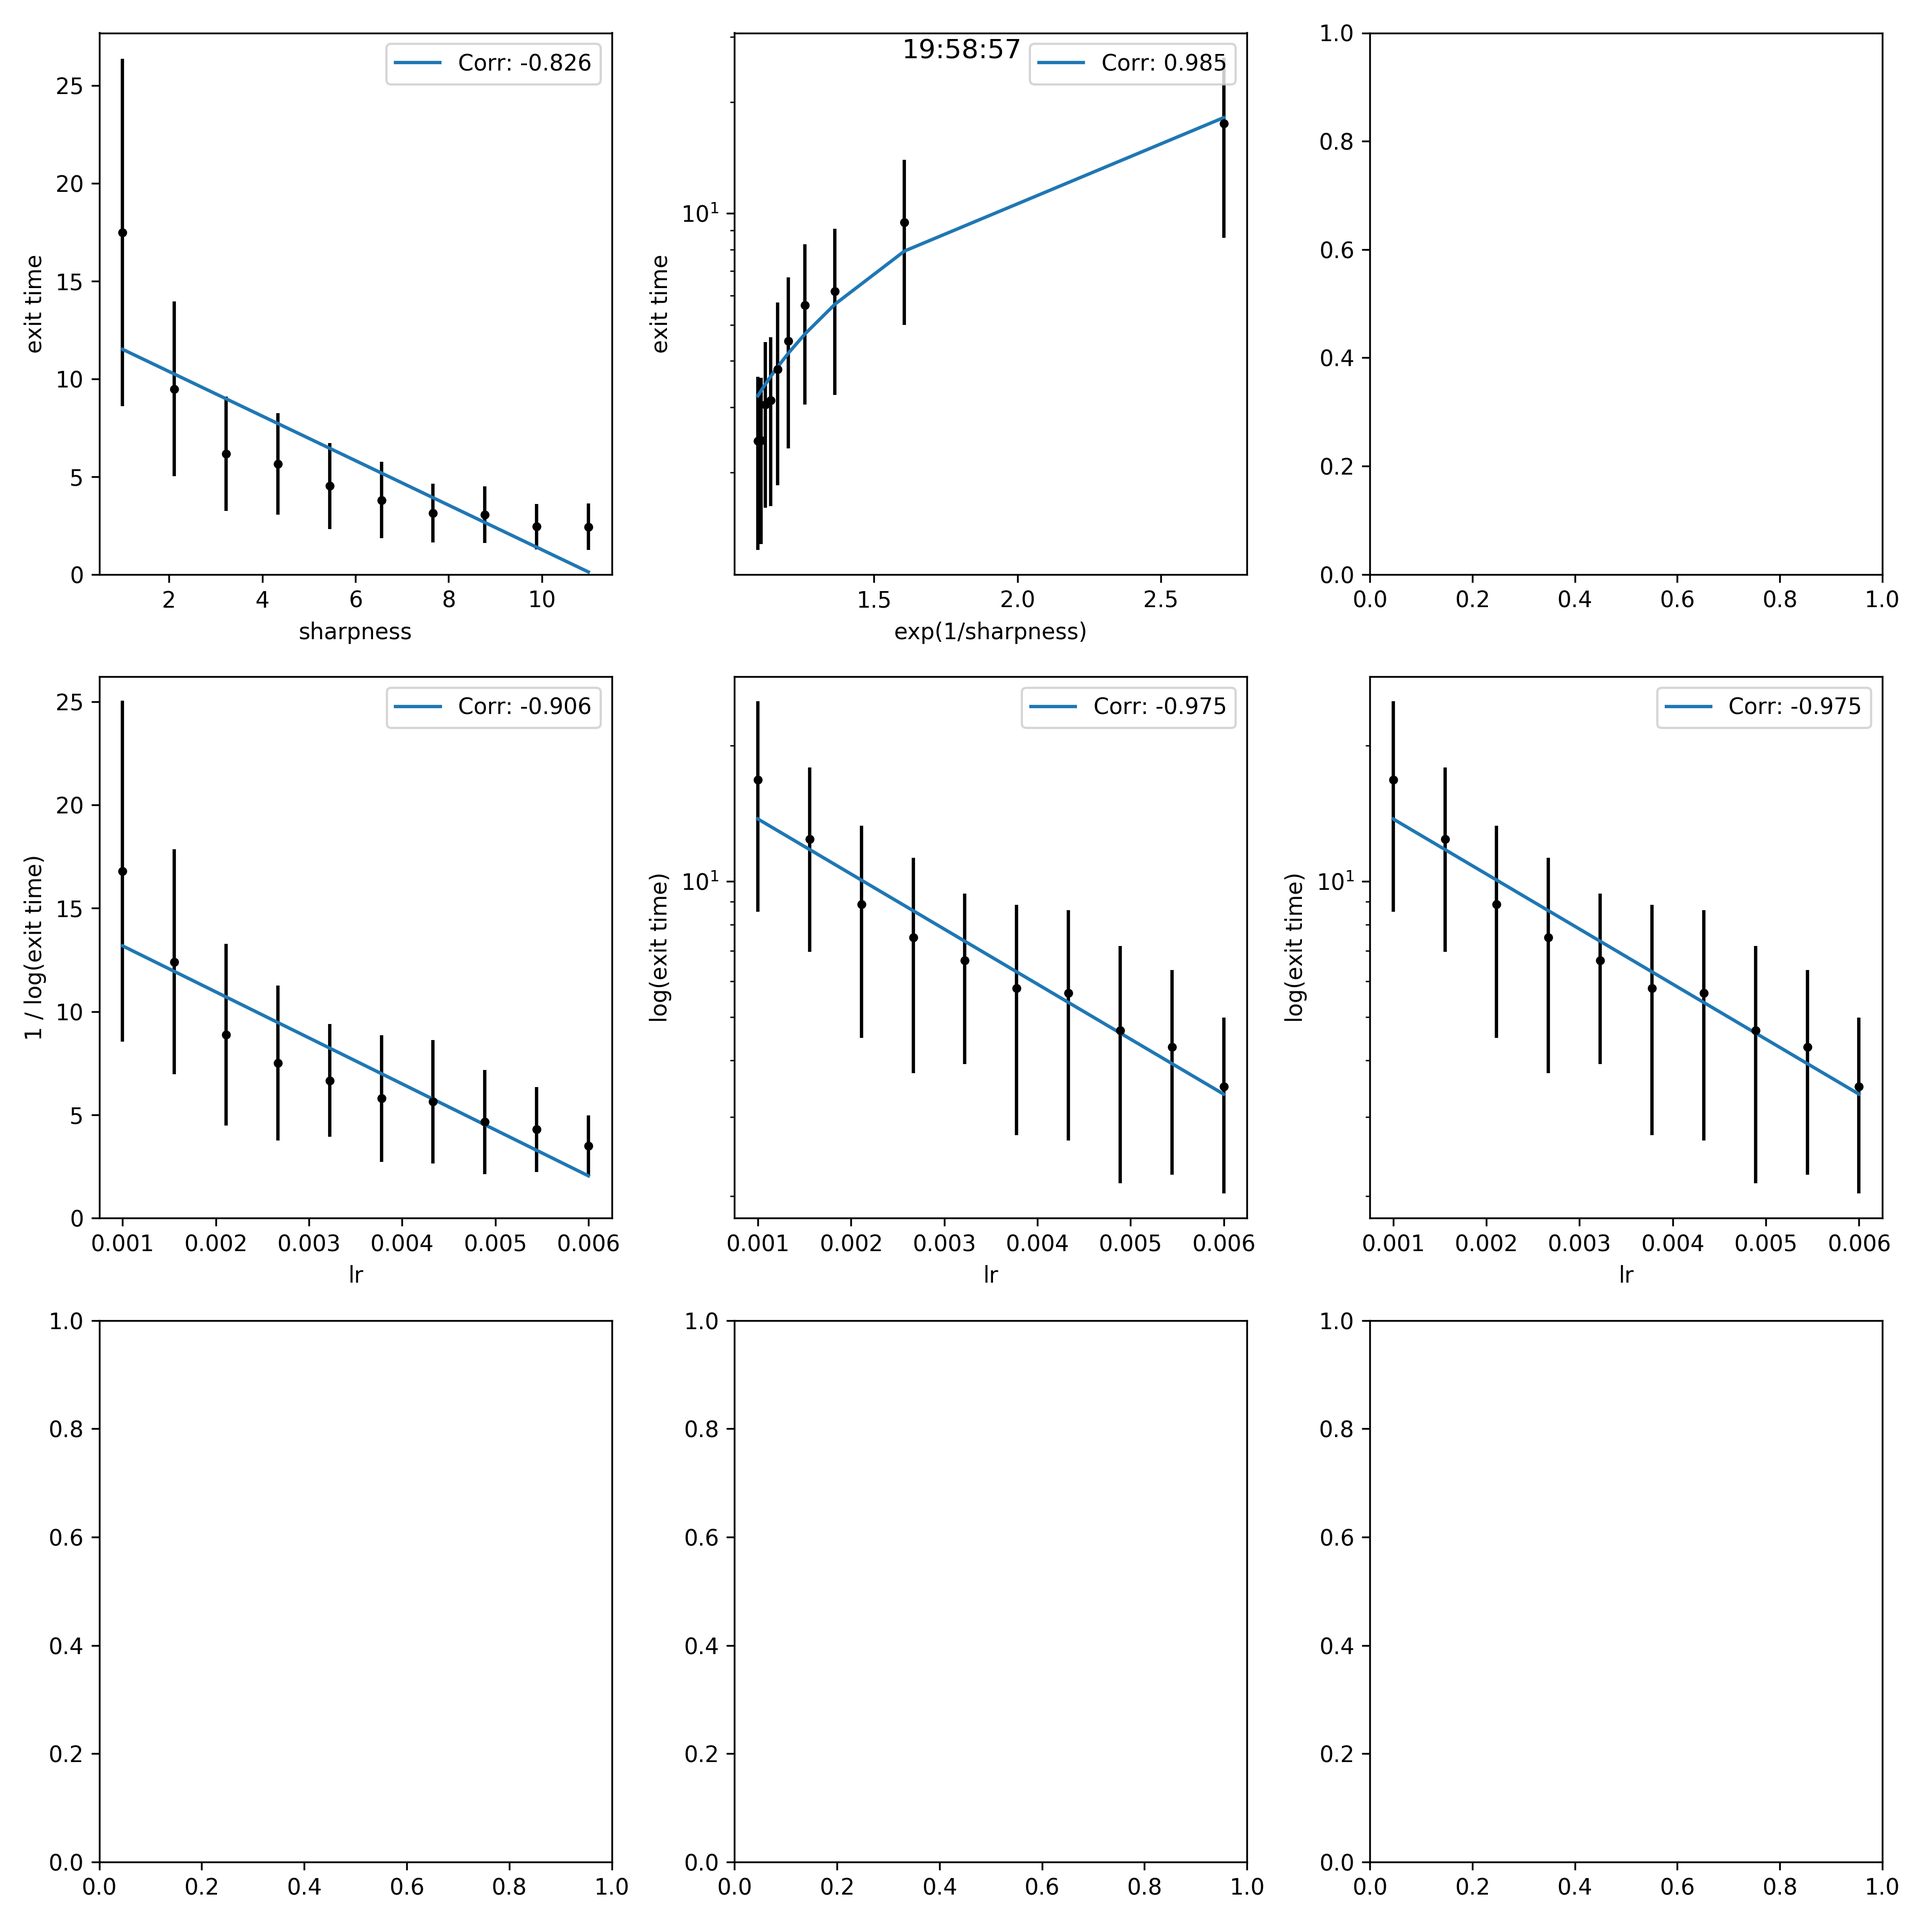
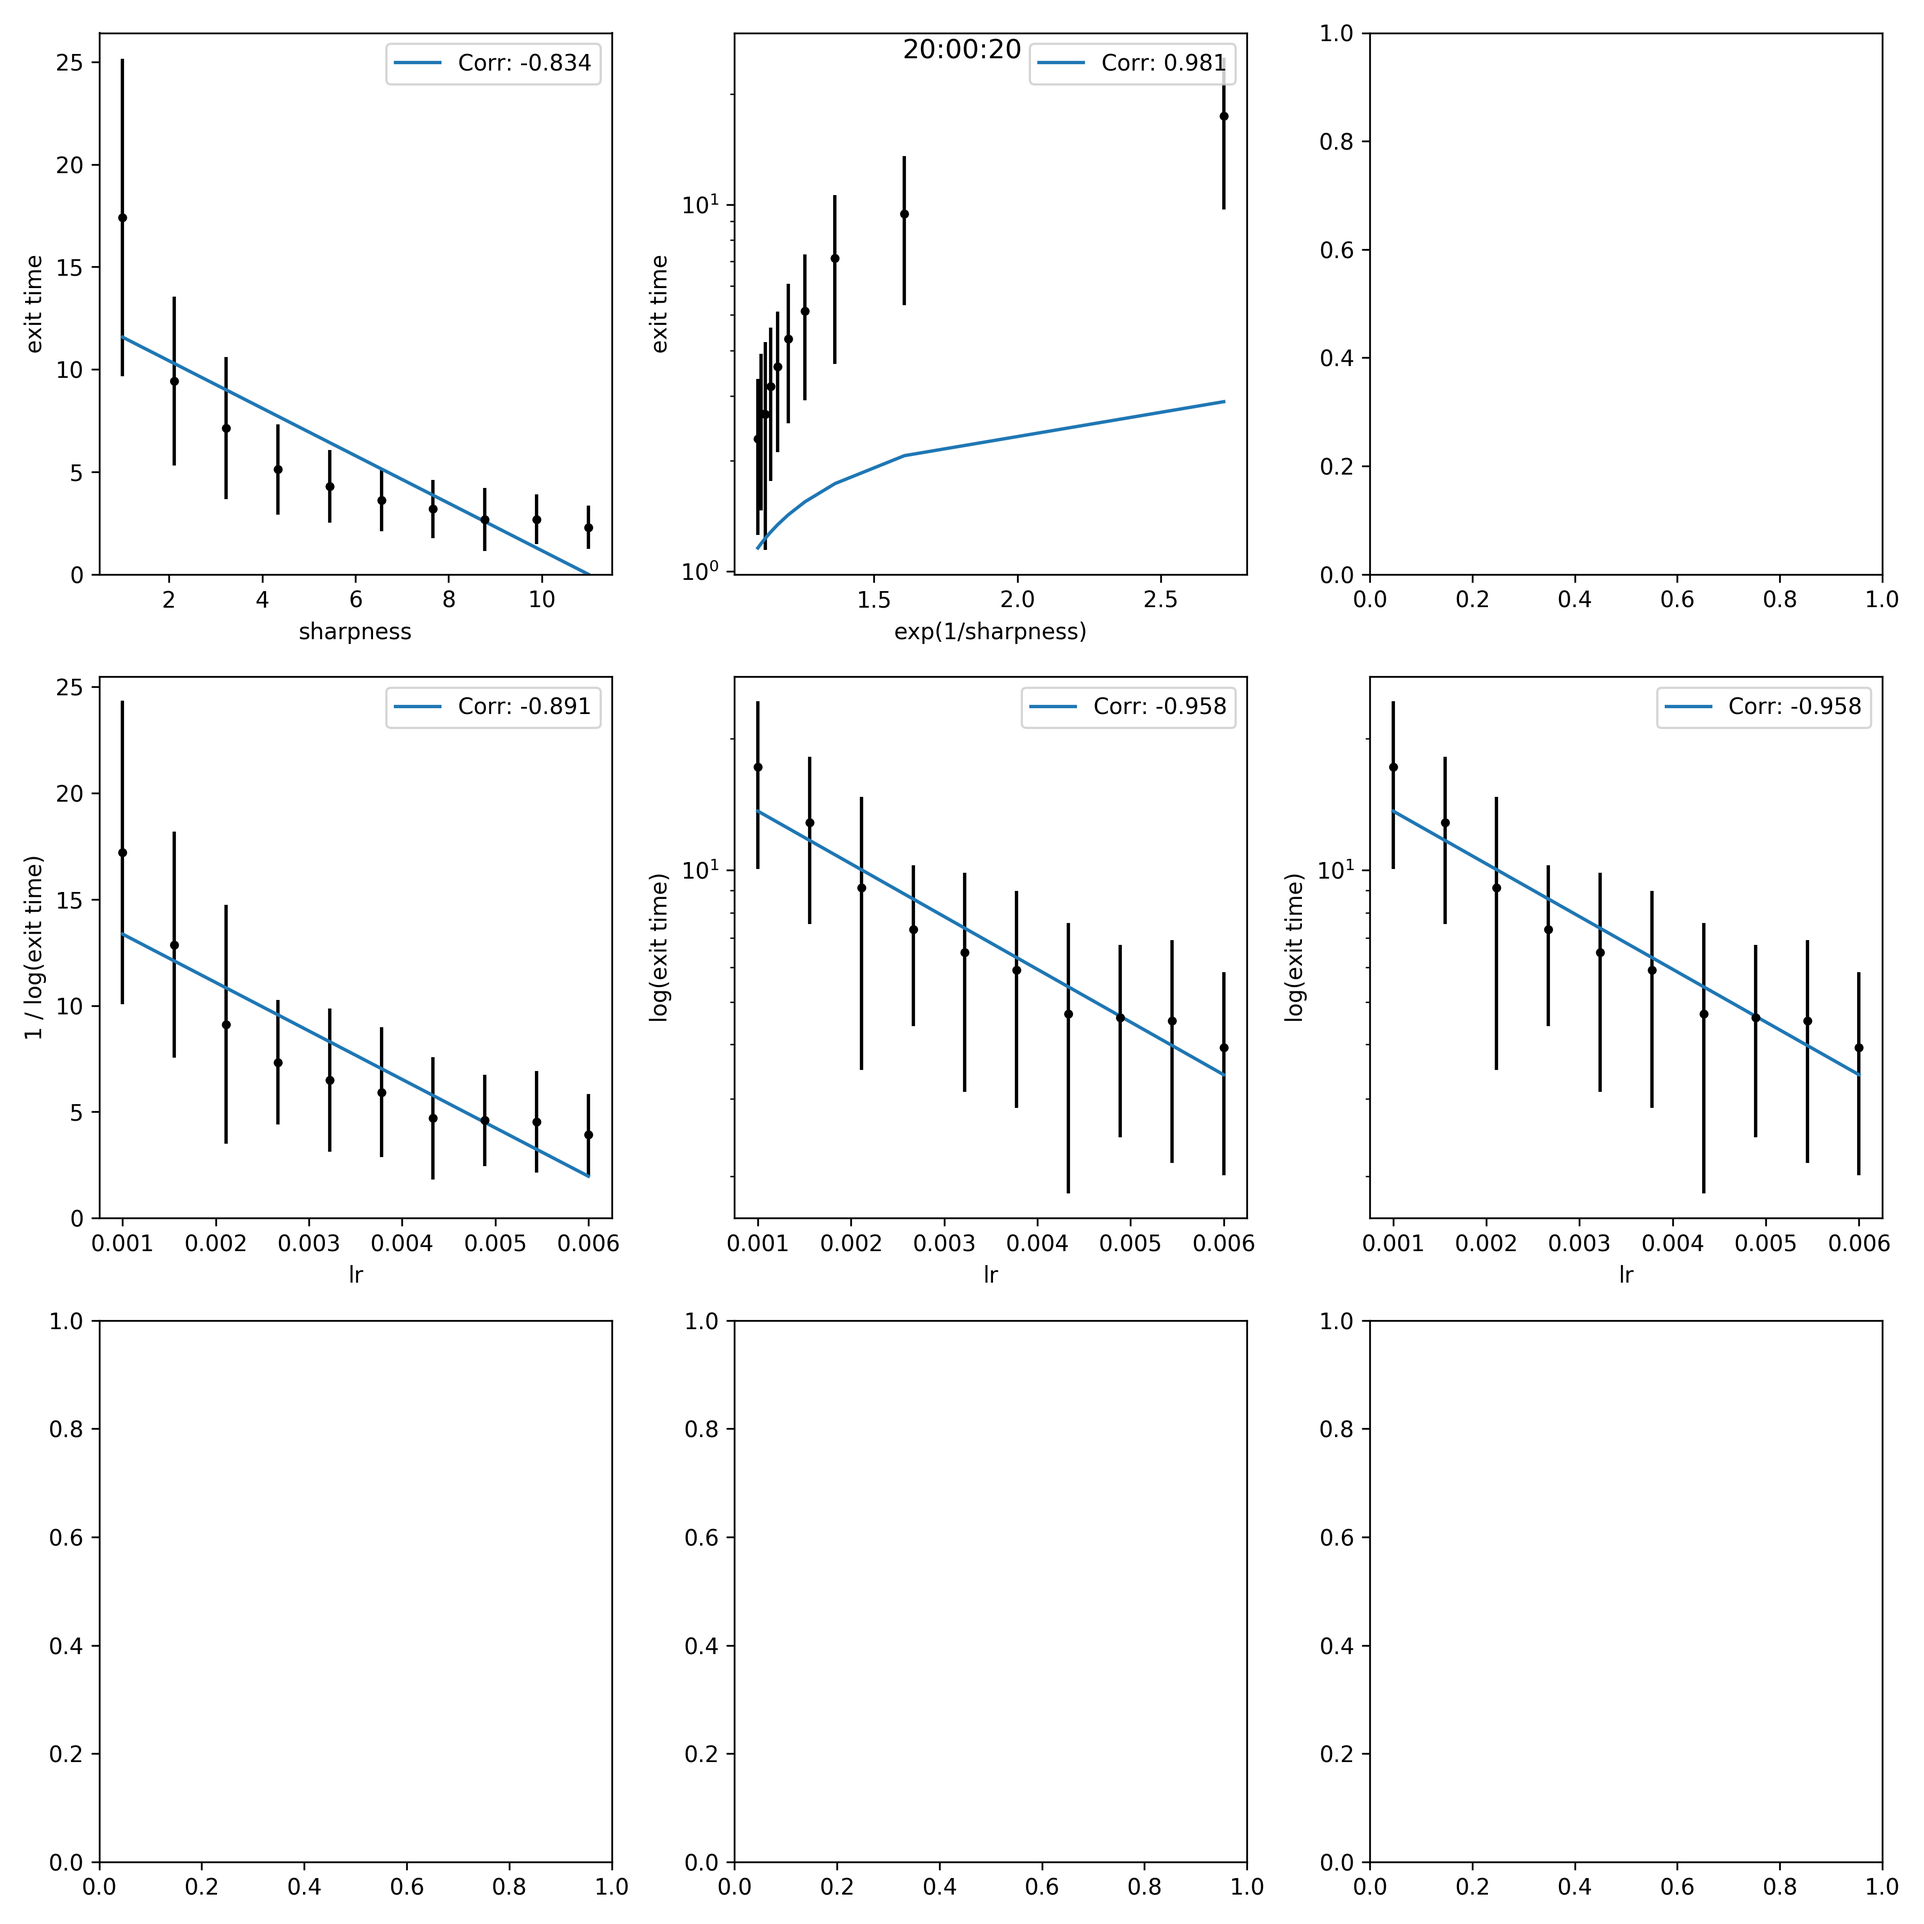
update

diff --git a/exit_time.py b/exit_time.py
@@ -171,7 +171,7 @@ def draw(sharpness_results, lr_results, batch_size_results):
     ax1[1].set_xlabel("exp(1/sharpness)")
     ax1[1].set_ylabel("exit time")
     ax1[1].errorbar(np.exp(1/x), y, yerr=std, fmt='.k') 
-    ax1[1].plot(np.exp(1/x), exp_m*np.exp(1/x) + exp_c) 
+    ax1[1].plot(np.exp(1/x), np.log(exp_m*np.exp(1/x) + exp_c))
     ax1[1].set_yscale("log") 
     ax1[1].legend([f'Corr: {exp_coeff:.3g}'])
     # # Log quad
